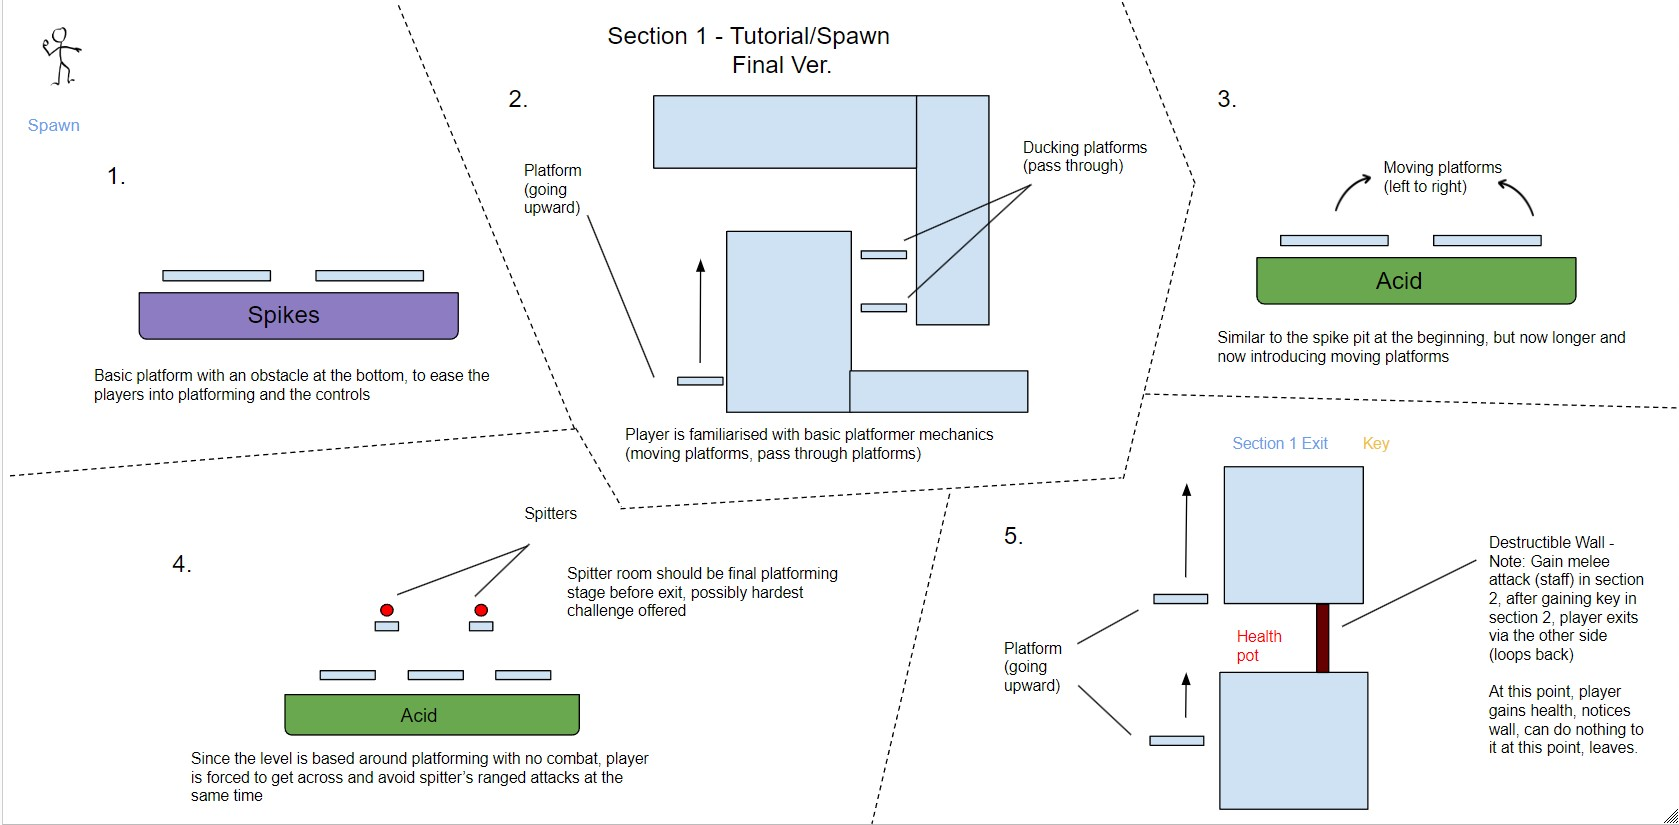
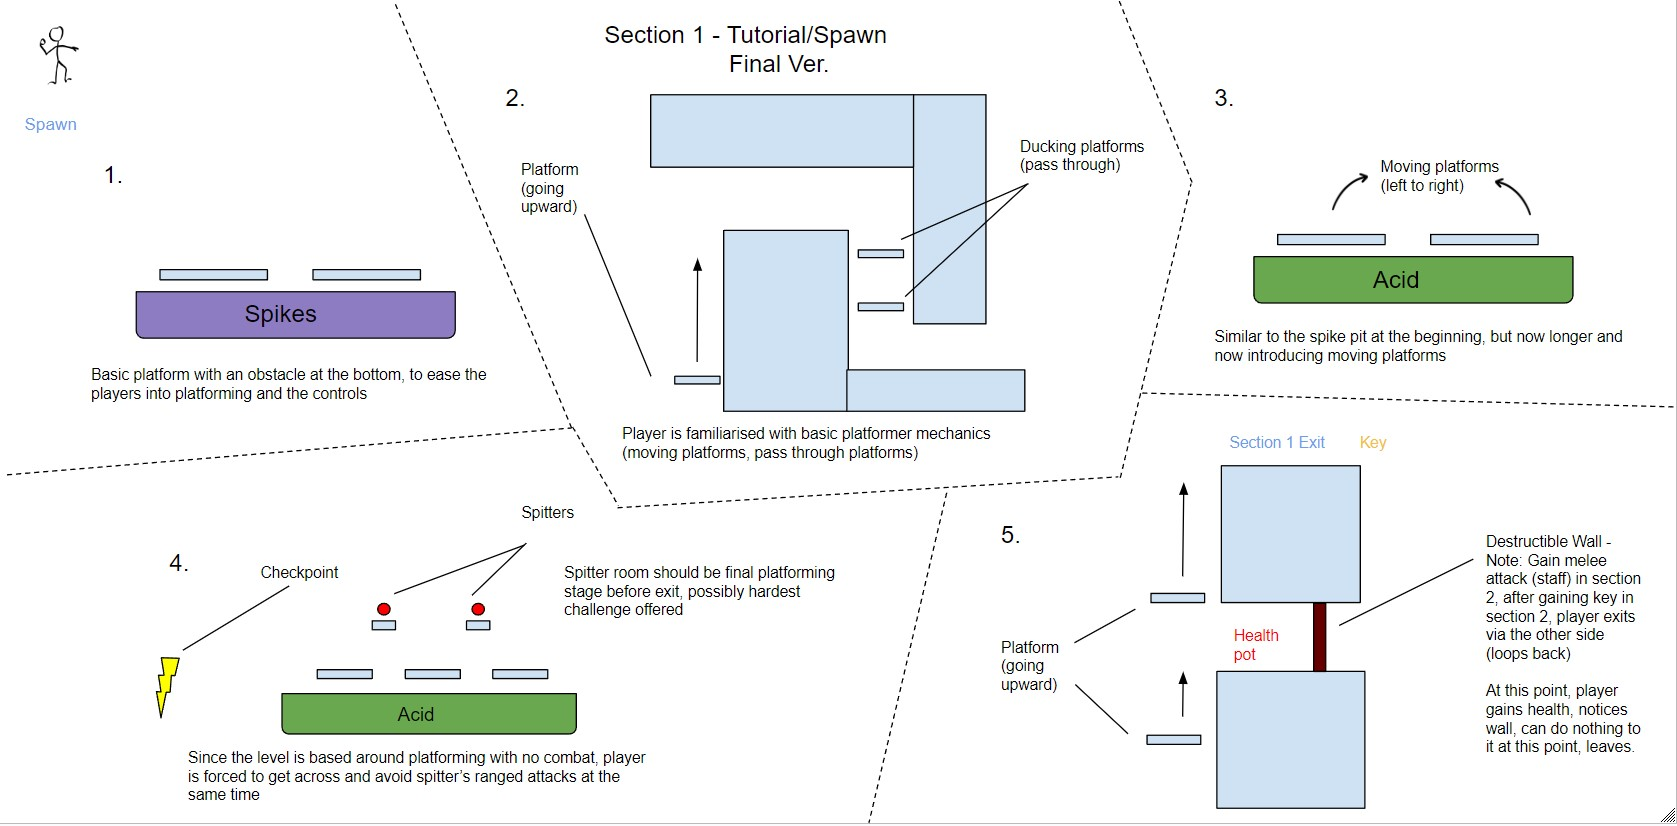
core-gameplay

diff --git a/README.md b/README.md
@@ -67,27 +67,40 @@ Storyboards can be combined when multiple mechanics are introduced within a sing
 
 You should restructure the headings below to match the order they appear in your level.
 
-### 2.1. Acid
+### 2.1. Spikes
+Spikes are first introduced as large impediments that the player has to overcome. This is introduced to show what the player should avoid, since smaller ones are scattered throughout the level.
 
-### 2.2. Checkpoints
+### 2.2. Moving Platforms
+These platforms are introduced in a safer room, just to familiarize the player with the basic platforming mechanics and platforms that are able to move up vertically, and in subsequent room to jump horizontally from side to side
 
-### 2.3. Chompers
+### 2.3. Passthrough Platforms
+Similarly, these types of platforms are introduced in the same room, and are also shown in conjunction with the moving platforms to introduce the platforming basics and what’ll be in future sections.
 
 ### 2.4. Health Pickups
+These health pickups are introduced in the same room as the moving platforms and passthrough platforms, in order to provide players with that feeling of a safe room while platforming
 
-### 2.5. Keys
+### 2.5. Acid
+Acid is introduced in back to back rooms, in an acid pit complemented with moving platforms, showing them the basic platformer format after the safe room.
 
-### 2.6. Moving Platforms
+### 2.6. Checkpoints
+The checkpoints are shown in between the acid room and the final room, to warn the player of the incoming room, and that this might be a challenging room they could perish in.
 
-### 2.7. Passthrough Platforms
+### 2.7. Spitters
+Spitters are shown in the final acid room, to showcase the new enemy type and it’s gimmick: to fire spitballs at the player. It provides a more complex challenge that they’ll have to avoid.
 
-### 2.8. Spikes
+### 2.8. Keys
+Keys are shown at the end of the cavern, to showcase the end of that portion of the level, and as a reward. 
 
-### 2.9. Spitters
+### 2.9. Weapon Pickup (Staff)
+The staff pickup is shown in a special room, with health kits to showcase how important the room is, and what new ability it is you are obtaining. The exit is obstructed with a breakable wall, to showcase how the staff should work.
 
-### 2.10. Weapon Pickup (Gun)
+### 2.10. Chompers
+Chompers are shown after obtaining the staff weapon in a single room, to showcase that the chompers are seen as an enemy, and the weapon is able to be used against them.
 
-### 2.11. Weapon Pickup (Staff)
+### 2.11. Weapon Pickup (Gun)
+The gunpickup is shown in another special room, after solving a simple puzzle, to showcase what the gun is going to be used for and in the context of a puzzle room.
+
+
 
 ![Area1Inspiration](DocImages/Area1Inspiration.jpg)
 ![Area2Inspiration](DocImages/Area2Inspiration.jpg)
@@ -107,15 +120,16 @@ No additional words are necessary for this section (any words should only be wit
 
 ### 3.2. Level Map – Section 1
 ![Area1Overview](DocImages/Area1Overview.jpg)
+![Area1(FinalVers.)](DocImages/Area1(FinalVers.).jpg)
 
 
 ### 3.3. Level Map – Section 2
 ![Area2Overview](DocImages/Area2Overview.jpg)
-
+![Area3(FinalVers.)](DocImages/Area3(FinalVers.).jpg)
 
 ### 3.4. Level Map – Section 3
 ![Area3Overview](DocImages/Area3Overview.jpg)
-
+![Area3(FinalVers.)](DocImages/Area3(FinalVers.).jpg)
 
 ## 4. Iterative Design (~400 words)
 Reflect on how iterative design helped to improve your level. Additional prototypes and design artefacts should be included to demonstrate that you followed an iterative design process (e.g. pictures of paper prototypes, early grey-boxed maps, additional storyboards of later gameplay sequences, etc.). You can also use this section to justify design changes made in Unity after you drew your level design maps shown in section 3. 
